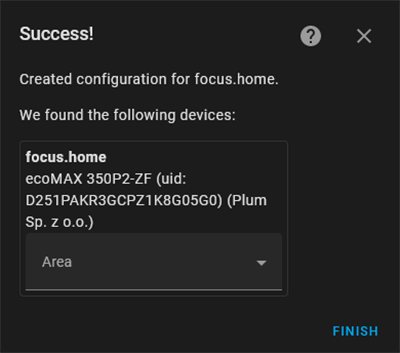
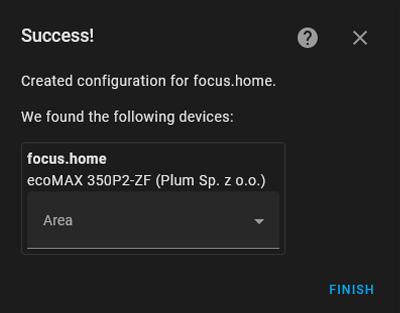
Update readme and images.

diff --git a/info.md b/info.md
@@ -24,7 +24,7 @@ __TCP connection__: you will need to fill Host and Port. Device path will be ign
 ![Success](https://raw.githubusercontent.com/denpamusic/homeassistant-plum-ecomax/main/images/success.png)
 
 ## Entities
-This integration provides following entities:
+This integration provides the following entities:
 
 ### Sensors
 - Heating Temperature
@@ -64,6 +64,7 @@ This integration provides following entities:
 - Maximum Heating Power
 - Minimum Heating Temperature
 - Maximum Heating Temperature
+- Fuel Calorific Value (in kWh/kg)
 
 ### Diagnostics
 - Service Password
@@ -75,34 +76,33 @@ This integration provides following entities:
 Integration provides full control for connected indirect water heater.  
 This includes ability to set target temperature, switch into priority, non-priority mode or turn off.
 
-
 ## Services
-This integration provides following services:
+This integration provides the following services:
 
 ### Set Parameter
-Provides ability to set device parameter by name. Any parameter that is supported by the device can be set here. To get parameter names, please download and open diagnostics data and look for a parameters key.
+Provides ability to set device parameter by name. Any parameter that is supported by the device can be used with this service. To get parameter names, please download and open diagnostics data and look for a `parameters` key.
 
 Fields:
 - __name__ - parameter name
 - __value__ - parameter value (allowed values: positive integer, "on", "off")
 
 ### Update Capabilities
-Updates list of sensors and parameters supported by device. Can be useful if new features has been introduced by the firmware update.
+Updates list of sensors and parameters that are supported by the device. Can be useful if new features has been introduced by the firmware update.
 
 ### Calibrate Meter
-Allows to set meter to specific value. Can be used to set value for total fuel burned sensor.
+Allows to set meter to the specific value. Can be used to set a value for total fuel burned sensor.
 
 Targets:
- - __fuel_burned__ - counts total burned fuel in kilograms
+ - __total_fuel_burned__ - counts total burned fuel in kilograms
 
 Fields:
  - __value__ - target sensor will be set to this value
 
 ### Reset Meter
-Allows to reset meter value. Can be used to reset value for total fuel burned sensor.
+Allows to reset the meter value. Can be used to reset a value for the total fuel burned sensor.
 
 Targets:
- - __fuel_burned__ - counts total burned fuel in kilograms
+ - __total_fuel_burned__ - counts total burned fuel in kilograms
 
 ## License
 This product is distributed under MIT license.

diff --git a/README.md b/README.md
@@ -63,7 +63,7 @@ __TCP connection__: you will need to fill Host and Port. Device path will be ign
 ![Success](https://raw.githubusercontent.com/denpamusic/homeassistant-plum-ecomax/main/images/success.png)
 
 ## Entities
-This integration provides following entities:
+This integration provides the following entities:
 
 ### Sensors
 - Heating Temperature
@@ -103,6 +103,7 @@ This integration provides following entities:
 - Maximum Heating Power
 - Minimum Heating Temperature
 - Maximum Heating Temperature
+- Fuel Calorific Value (in kWh/kg)
 
 ### Diagnostics
 - Service Password
@@ -115,32 +116,32 @@ Integration provides full control for connected indirect water heater.
 This includes ability to set target temperature, switch into priority, non-priority mode or turn off.
 
 ## Services
-This integration provides following services:
+This integration provides the following services:
 
 ### Set Parameter
-Provides ability to set device parameter by name. Any parameter that is supported by the device can be set here. To get parameter names, please download and open diagnostics data and look for a parameters key.
+Provides ability to set device parameter by name. Any parameter that is supported by the device can be used with this service. To get parameter names, please download and open diagnostics data and look for a `parameters` key.
 
 Fields:
 - __name__ - parameter name
 - __value__ - parameter value (allowed values: positive integer, "on", "off")
 
 ### Update Capabilities
-Updates list of sensors and parameters supported by device. Can be useful if new features has been introduced by the firmware update.
+Updates list of sensors and parameters that are supported by the device. Can be useful if new features has been introduced by the firmware update.
 
 ### Calibrate Meter
-Allows to set meter to specific value. Can be used to set value for total fuel burned sensor.
+Allows to set meter to the specific value. Can be used to set a value for total fuel burned sensor.
 
 Targets:
- - __fuel_burned__ - counts total burned fuel in kilograms
+ - __total_fuel_burned__ - counts total burned fuel in kilograms
 
 Fields:
  - __value__ - target sensor will be set to this value
 
 ### Reset Meter
-Allows to reset meter value. Can be used to reset value for total fuel burned sensor.
+Allows to reset the meter value. Can be used to reset a value for the total fuel burned sensor.
 
 Targets:
- - __fuel_burned__ - counts total burned fuel in kilograms
+ - __total_fuel_burned__ - counts total burned fuel in kilograms
 
 ## License
 This product is distributed under MIT license.
